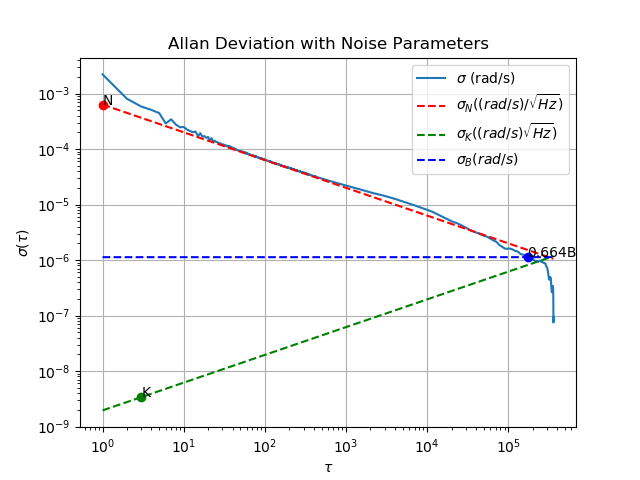
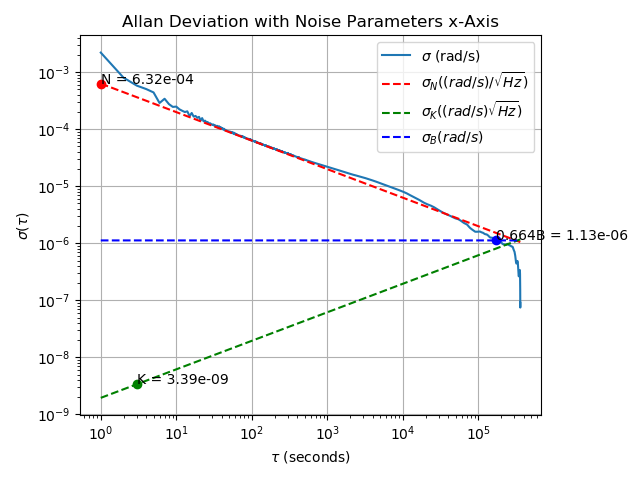
Added numerical value to allan noise

diff --git a/imu/analysis/dataUtil.py b/imu/analysis/dataUtil.py
@@ -250,16 +250,17 @@ def plot_allan_variance_and_noise(gyro_data):
         plt.plot(tauB, scfB_mult_b, 'bo')  # Mark B
 
         # Add text annotations
-        plt.text(tauN, N, 'N')
-        plt.text(tauK, K, 'K')
-        plt.text(tauB, scfB_mult_b, '0.664B')
+        plt.text(tauN, N, f'N = {N:.2e}')
+        plt.text(tauK, K, f'K = {K:.2e}')
+        plt.text(tauB, scfB_mult_b, f'0.664B = {scfB_mult_b:.2e}')
 
-        plt.title('Allan Deviation with Noise Parameters')
-        plt.xlabel('$\\tau$')
+        plt.title(f'Allan Deviation with Noise Parameters {axis}-Axis')
+        plt.xlabel('$\\tau$ (seconds)')
         plt.ylabel('$\sigma(\\tau)$')
         plt.legend()
         plt.grid(True)
 
+        plt.tight_layout()
         plot_path = os.path.join(PLOT_DIR, f'allan_and_noise_{axis}.png')
         plt.savefig(plot_path)
         plt.close()
